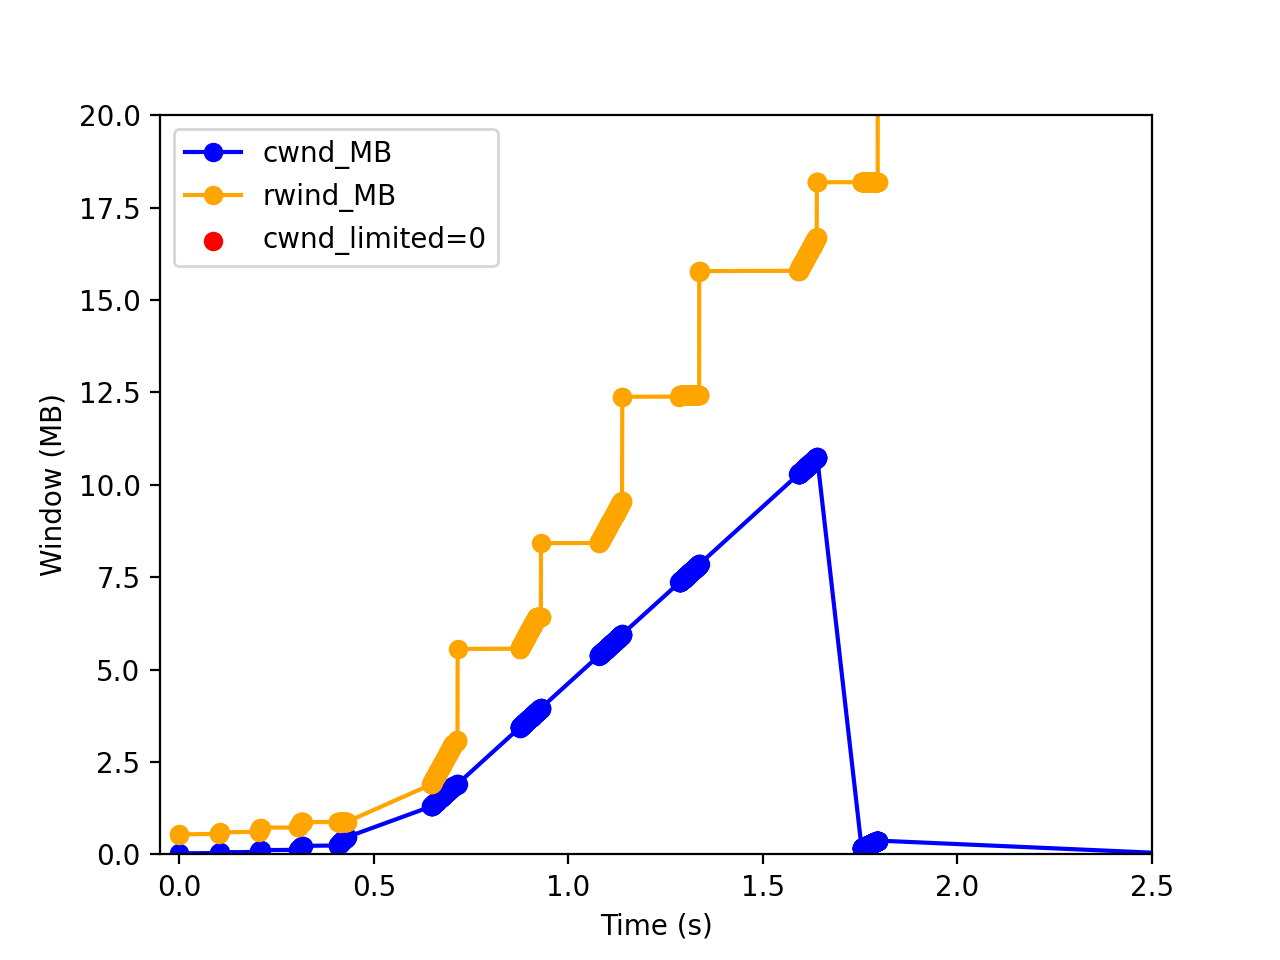
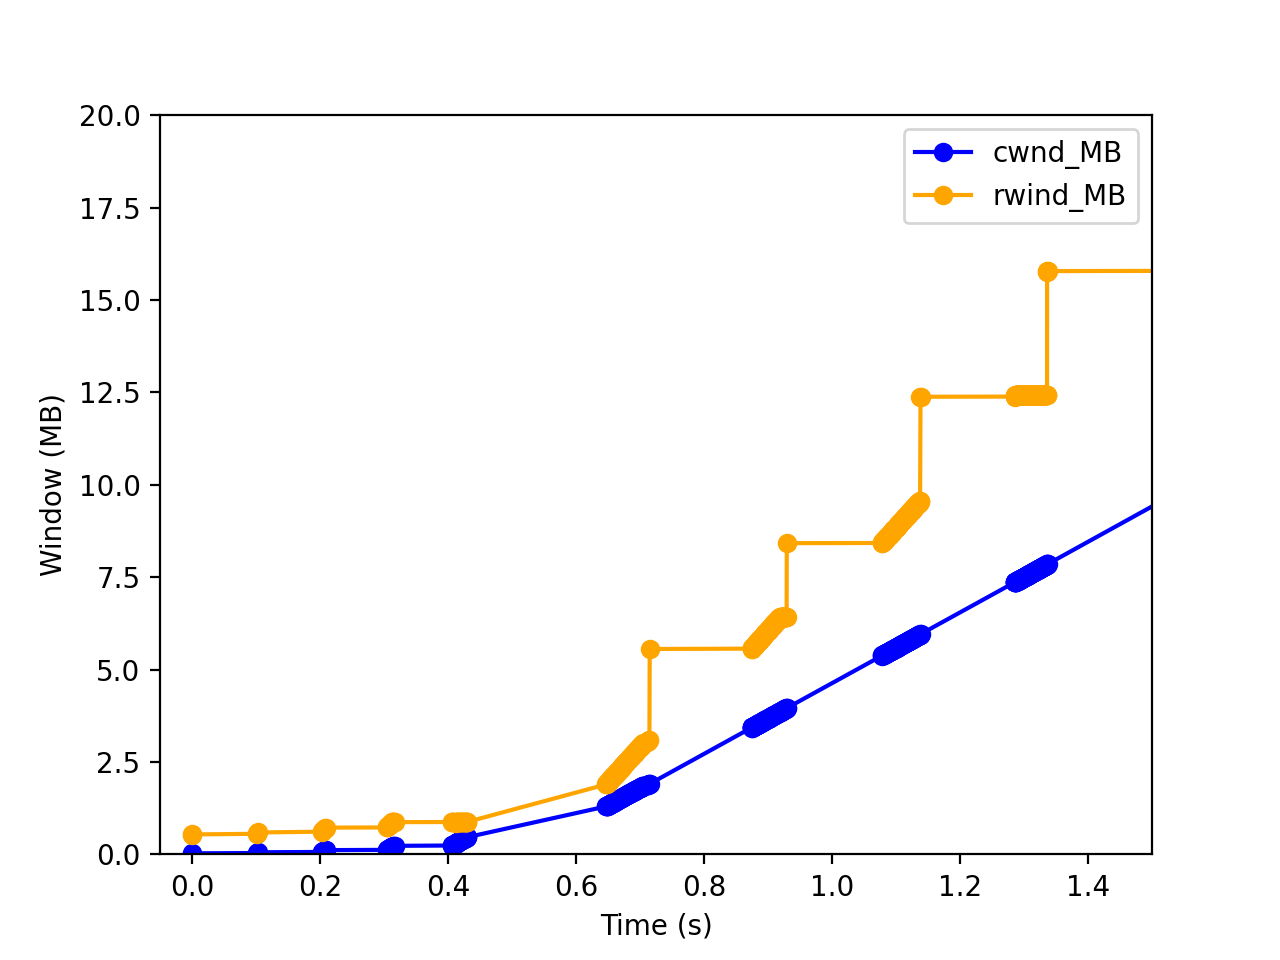
ietf graphs

diff --git a/for_IETF_Nov_2025/present_graphs_ietf_nov_2025.html b/for_IETF_Nov_2025/present_graphs_ietf_nov_2025.html
@@ -193,6 +193,39 @@ hr.bold-line {
 
 <hr class="bold-line">
 
+<h1>FreeBSD (Set_value)</h1>
+
+<p style="max-width:800px;margin:20px auto 30px auto;font-size:16px;line-height:1.6em;color:#333;text-align:left;">
+  In this section, we <strong>modified several TCP buffer and congestion control parameters</strong> 
+</p>
+
+
+<table>
+<tr><th>Parameter</th><th>Default</th><th>Set Value</th></tr>
+<tr><td>abc_l_var</td><td>2</td><td class='changed'>200</td></tr>
+<tr><td>sendspace</td><td>32768</td><td class='changed'>1048576</td></tr>
+<tr><td>sendbuf_inc</td><td>8192</td><td>8192</td></tr>
+<tr><td>sendbuf_max</td><td>2097152</td><td class='changed'>134217728</td></tr>
+<tr><td>maxsockbuf</td><td>2097152</td><td class='changed'>268435456</td></tr>
+</table>
+
+<h2>default_newreno_off</h2>
+<ul class="figure-desc">
+  <li>Here, buffer and congestion-related parameters such as <em>sendspace</em> and <em>maxsockbuf</em> are increased significantly.</li>
+  <li>The larger abc_l_var and buffers allow a higher <em>cwnd</em>.</li>
+  <li>The <em>cwnd</em> grows rapidly, but an abrupt collapse occurs due to a retransmission timeout triggered by excessive queue buildup.</li>
+  <li>As a result, throughput drops sharply after the peak.</li>
+</ul>
+<div class='grid'>
+  <div class='card'><img class='zoom-img' src='freebsd/default_newreno_off_param_sweep-abc200_send1048576_inc8192_max134217728_sock268435456/plots/log_data1_cwnd_theoretical_zoomed.png'><p>cwnd_theoretical cwnd</p></div>
+  <div class='card'><img class='zoom-img' src='freebsd/default_newreno_off_param_sweep-abc200_send1048576_inc8192_max134217728_sock268435456/plots/log_data1_cwnd_rwind_cwndlimited_zoomed.png'><p>cwnd_rwind</p></div>
+  <div class='card'><img class='zoom-img' src='freebsd/default_newreno_off_param_sweep-abc200_send1048576_inc8192_max134217728_sock268435456/plots/log_data1_rwind_cwnd_theoretical_cwnd_zoomed.png'><p>cwnd_rwind_theoretical</p></div>
+  <div class='card'><img class='zoom-img' src='freebsd/default_newreno_off_param_sweep-abc200_send1048576_inc8192_max134217728_sock268435456/plots/log_data1_srtts_zoomed.png'><p>srtt</p></div>
+  <div class='card'><img class='zoom-img' src='freebsd/default_newreno_off_param_sweep-abc200_send1048576_inc8192_max134217728_sock268435456/plots/log_data1_throughput_goodput_zoomed.png'><p>throughput_goodput</p></div>
+</div>
+
+<hr class="bold-line">
+
 <h1>FreeBSD_Default_SEARCH (cwnd rollback by current RTT)</h1>
 <table>
 <tr><th>Parameter</th><th>Default</th><th>Set Value</th></tr>
